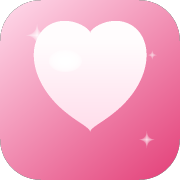
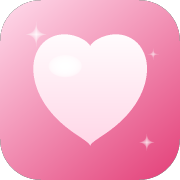
Centre the heart, and stop the sound toggle following you around
The heart curve is not symmetric about its own origin — the bottom point reaches
further than the lobes — so centring the equation left the shape sitting high.
Measured the curve's real bounding box (centre at y=+0.118, height 2.236) and
derived the offset from that instead of guessing.

The sound toggle was in the root layout, so it appeared on the login and
onboarding screens where nothing can buzz. It now shows only in a room or on
the demo page. The pulse overlay stays everywhere; it is invisible until a
buzz actually fires.

Changed region(s): [[0.1667, 0.1111, 0.8611, 0.8056], [0.7778, 0.7222, 0.8611, 0.8333]]

diff --git a/components/BuzzPulse.tsx b/components/BuzzPulse.tsx
@@ -1,5 +1,6 @@
 "use client";
 import { useEffect, useRef, useState } from "react";
+import { usePathname } from "next/navigation";
 import { BUZZ_EVENT, canVibrate } from "@/lib/haptics";
 import { setSound, soundOn } from "@/lib/sound";
 
@@ -10,14 +11,16 @@ import { setSound, soundOn } from "@/lib/sound";
  * have used — red and hard for her cramp, warm and slow for his comfort. On
  * Android this runs alongside the real vibration and just makes it more visible.
  *
- * Also offers the sound toggle, but only where there is no motor: on iPhone the
- * speaker is the only way to actually feel anything.
+ * The sound toggle only appears where something can actually buzz — the room and
+ * the demo page. On the login and onboarding screens it would just be clutter.
  */
 export default function BuzzPulse() {
   const [flash, setFlash] = useState<null | "pain" | "comfort">(null);
   const [noMotor, setNoMotor] = useState(false);
   const [sound, setSoundState] = useState(false);
   const timers = useRef<number[]>([]);
+  const path = usePathname();
+  const canBuzzHere = path.startsWith("/room/") || path === "/demo";
 
   useEffect(() => {
     setNoMotor(!canVibrate());
@@ -60,6 +63,7 @@ export default function BuzzPulse() {
         }}
       />
 
+      {canBuzzHere && (
       <button
         onClick={() => { const next = !sound; setSound(next); setSoundState(next); }}
         aria-pressed={sound}
@@ -73,6 +77,7 @@ export default function BuzzPulse() {
       >
         {sound ? "🔊 sound on" : "🔇 sound off"}
       </button>
+      )}
     </>
   );
 }
